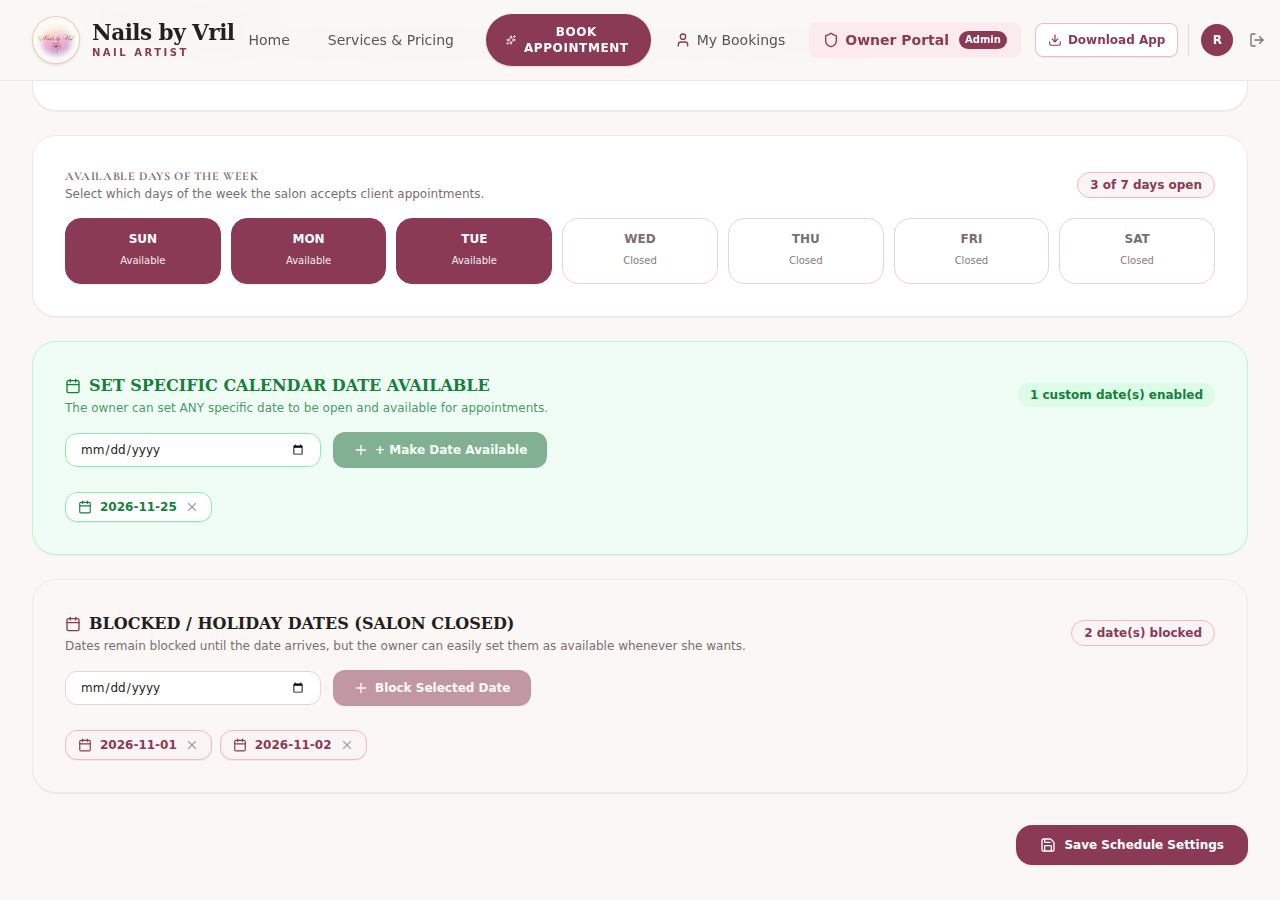
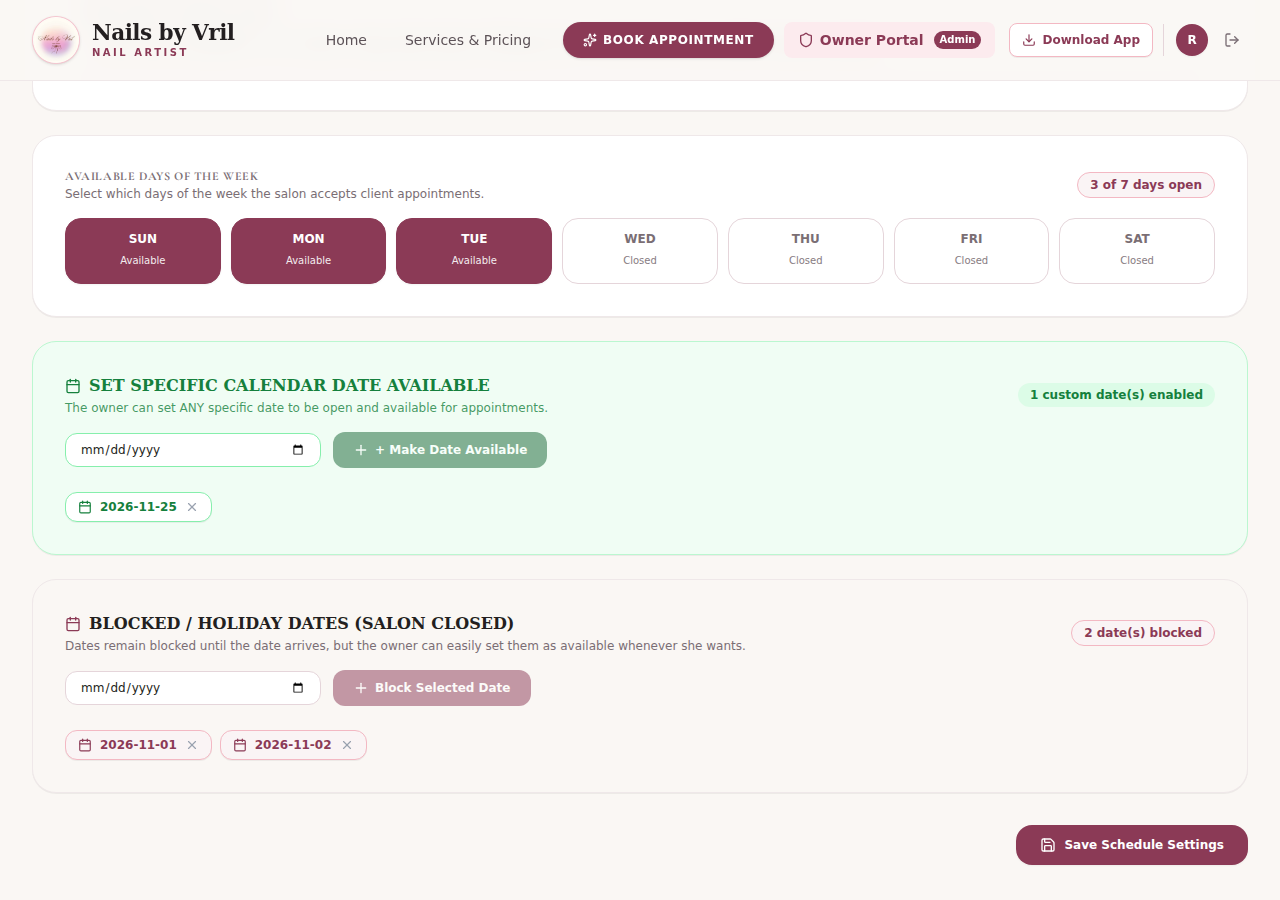
feat(nav): hide customer bookings tab for admins and redirect to owner portal

Changed region(s): [[0.25, 0.0, 0.9688, 0.0933], [0.1875, 0.0311, 0.2188, 0.0622]]

diff --git a/src/components/Footer.tsx b/src/components/Footer.tsx
@@ -80,7 +80,7 @@ export const Footer: React.FC<FooterProps> = ({
                   Reserve Appointment Slot
                 </button>
               </li>
-              {currentUser ? (
+              {currentUser && !isAdmin && (
                 <li>
                   <button
                     onClick={() => onSelectTab('customer')}
@@ -89,7 +89,8 @@ export const Footer: React.FC<FooterProps> = ({
                     My Appointments &amp; History
                   </button>
                 </li>
-              ) : (
+              )}
+              {!currentUser && (
                 <li>
                   <button
                     onClick={() => {

diff --git a/src/components/Navbar.tsx b/src/components/Navbar.tsx
@@ -29,7 +29,7 @@ export const Navbar: React.FC<NavbarProps> = ({
     { id: 'home', label: 'Home' },
     { id: 'services', label: 'Services & Pricing' },
     { id: 'book', label: 'Book Appointment', highlight: true },
-    ...(currentUser ? [{ id: 'customer', label: 'My Bookings', icon: User }] : []),
+    ...(currentUser && !isAdmin ? [{ id: 'customer', label: 'My Bookings', icon: User }] : []),
     ...(currentUser && isAdmin ? [{ id: 'admin', label: 'Owner Portal', icon: Shield, badge: 'Admin' }] : []),
   ];
 

diff --git a/src/App.tsx b/src/App.tsx
@@ -61,6 +61,13 @@ export default function App() {
     )
   );
 
+  // Admins manage the business via Owner Portal ('admin'); redirect away from client 'customer' bookings view
+  useEffect(() => {
+    if (isAdmin && currentTab === 'customer') {
+      setCurrentTab('admin');
+    }
+  }, [isAdmin, currentTab]);
+
   // Listen to Auth State Changes & Global Unhandled Token/WebSocket Rejections
   useEffect(() => {
     const handleUnhandledRejection = (event: PromiseRejectionEvent) => {
